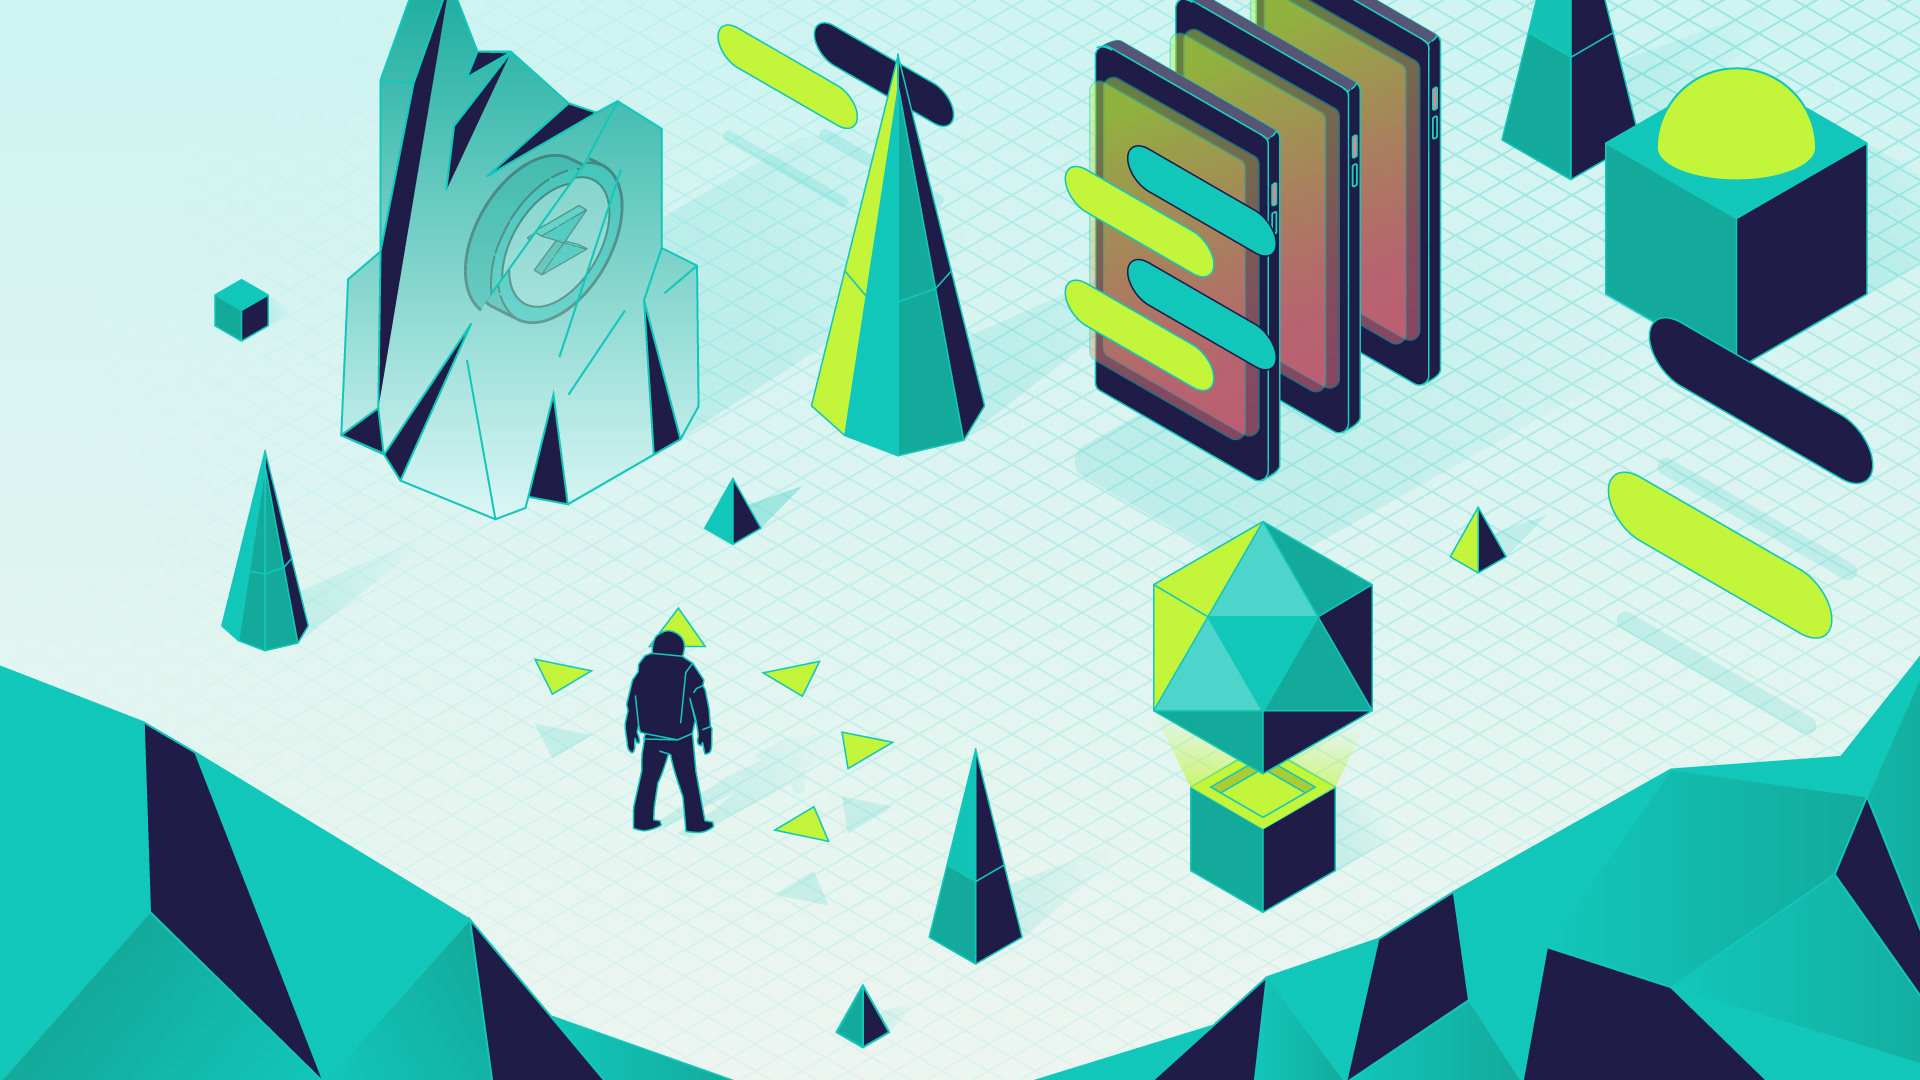
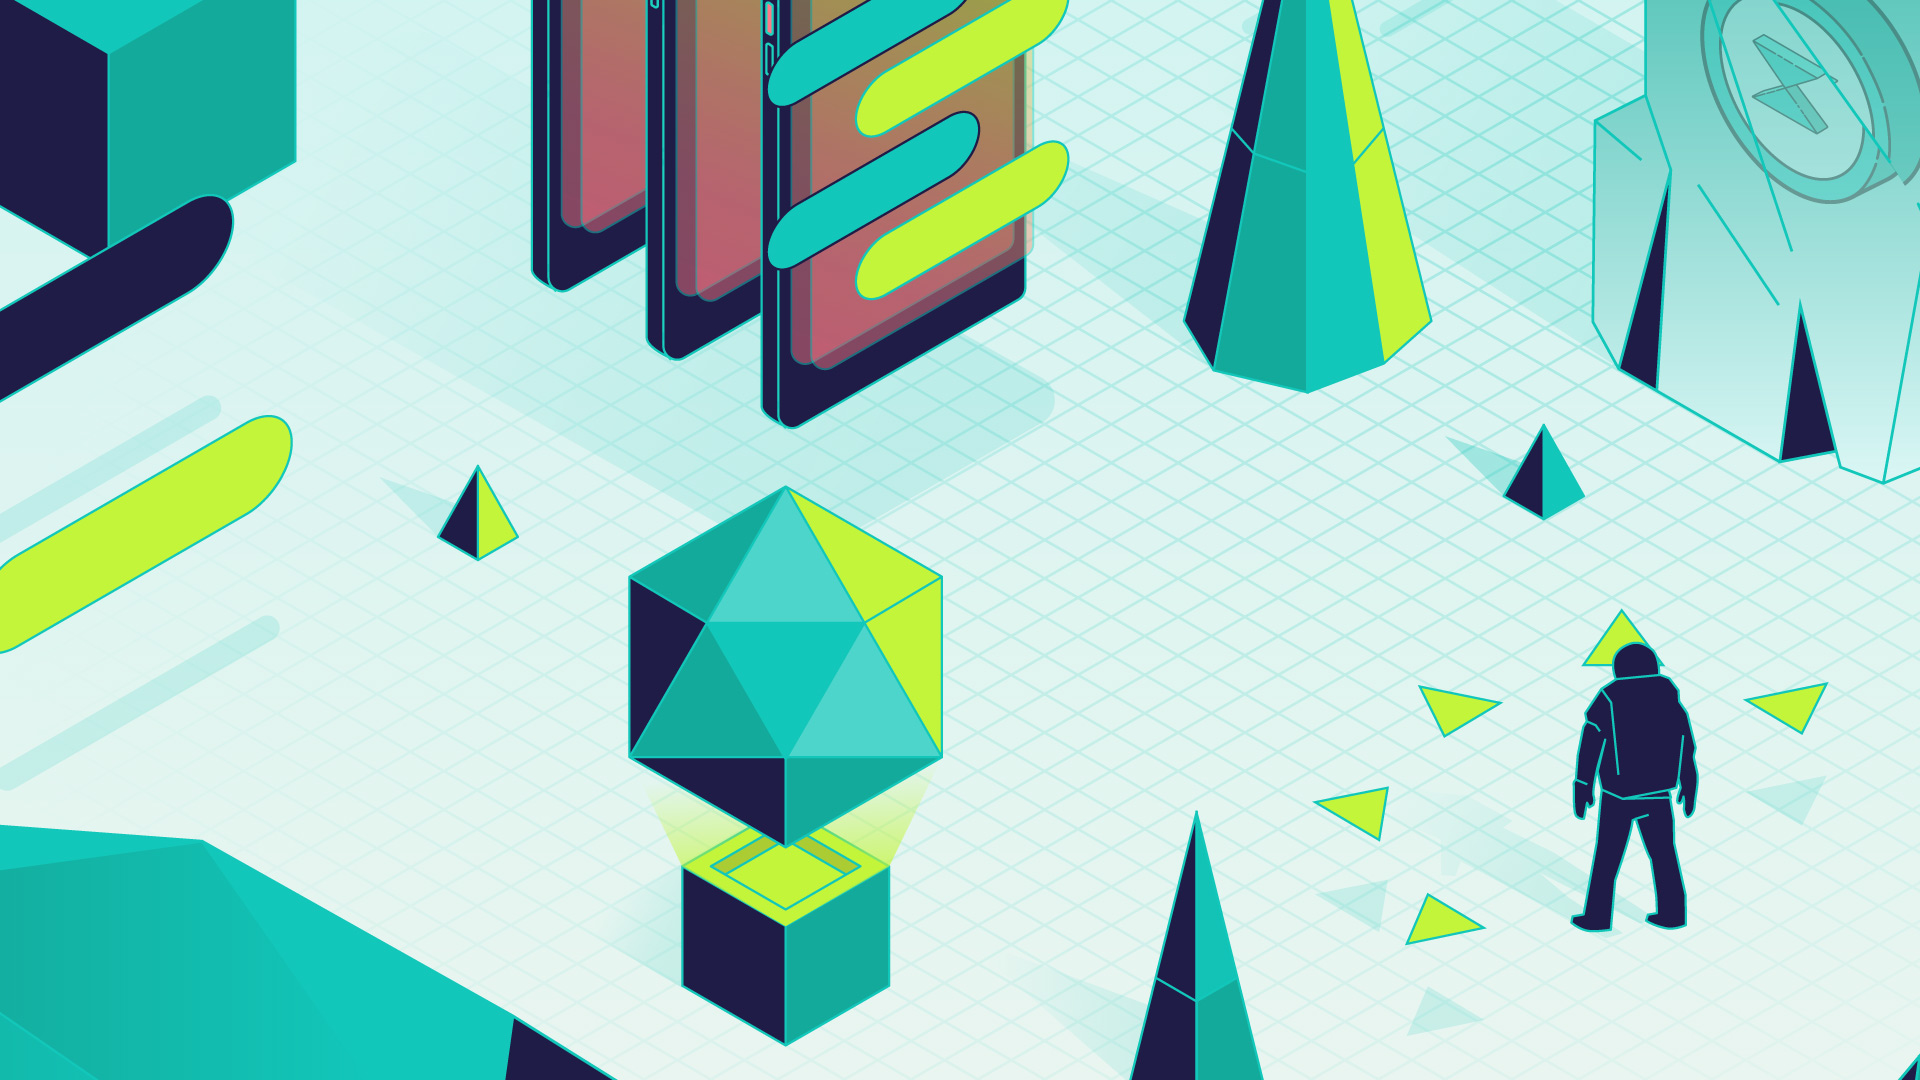
Basis home-hero

diff --git a/components/HomeHeroBubble.tsx b/components/HomeHeroBubble.tsx
@@ -1,0 +1,34 @@
+import classNames from 'classnames';
+import { useContext } from 'react';
+import { ScreenContext } from '../contexts/screen';
+
+export function HomeHeroBubble() {
+  const { isMobile, isTablet, isHuge } = useContext(ScreenContext);
+
+  return (
+    <div
+      style={{
+        transform:
+          isMobile || isTablet
+            ? 'translateY(-40vh)'
+            : isHuge
+            ? 'translateY(-40vh)'
+            : 'translateY(-50vh)',
+      }}
+      className="absolute bottom-0 z-40 px-10 duration-300"
+    >
+      <div
+        className={classNames(
+          'px-4 py-2  leading-tight  text-base border rounded-lg bg-opacity-90 border-secondary bg-alt front-prompt text-primary',
+          //   isMobile ? 'text-base' : 'text-xl',
+        )}
+      >
+        <p className="mb-1 text-xs text-secondary">OXEN</p>
+        Welcome to Oxen.
+        <br />
+        We know you have questions;
+        <br /> here are the answers.
+      </div>
+    </div>
+  );
+}

diff --git a/components/layout/index.tsx b/components/layout/index.tsx
@@ -17,10 +17,11 @@ export default function Layout({ children }: Props) {
     (state: IState) => state.navigation,
   );
 
-  const marginLeft =
+  const marginLeft = `${
     pageType === PageType.NORMAL && isTablet
       ? UI.SIDE_MENU_SIDE_BAR_WIDTH_PX
-      : 0;
+      : 0
+  }px`;
 
   const mobileMenuOpen =
     (pageType === PageType.BLOG || pageType === PageType.POST) &&
@@ -40,12 +41,13 @@ export default function Layout({ children }: Props) {
         className="flex w-full h-full"
       >
         <SideMenu />
+
         <div
           style={{
-            marginLeft: `${marginLeft}px`,
+            marginLeft,
             filter: `brightness(${mobileMenuOpen ? 0.85 : 1})`,
           }}
-          className="relative w-full h-full overflow-y-auto duration-300 bg-alt"
+          className="relative z-50 w-full h-full overflow-y-auto duration-300"
         >
           {children}
         </div>

diff --git a/pages/[page].tsx b/pages/[page].tsx
@@ -62,7 +62,7 @@ function Page({ page }: { page: ISplitPage }) {
         <title>{generateTitle(page?.label)}</title>
       </Head>
 
-      <div>
+      <div className="bg-alt">
         <div className="aspect-w-16 aspect-h-10">
           <div className="flex items-center justify-center bg-gradient-to-br from-blush to-hyper">
             <img
@@ -74,7 +74,7 @@ function Page({ page }: { page: ISplitPage }) {
         </div>
 
         <Contained>
-          <h1 className="w-10/12 mt-6 mb-4 text-5xl font-bold leading-none text-primary font-prompt">
+          <h1 className="w-10/12 mt-6 mb-4 text-4xl font-bold leading-none text-primary font-prompt">
             {page?.title}
           </h1>
 

diff --git a/pages/index.tsx b/pages/index.tsx
@@ -1,5 +1,7 @@
 import Head from 'next/head';
 import React from 'react';
+import { HomeHero } from '../components/HomeHero';
+import { HomeHeroBubble } from '../components/HomeHeroBubble';
 import { METADATA } from '../constants';
 
 const Index = () => {
@@ -14,9 +16,9 @@ const Index = () => {
         />
       </Head>
 
-      <div className="absolute inset-0">
-        <img className="object-cover w-full h-full" src="/hero.jpg" />
-      </div>
+      {/* Only visible when no pages are open */}
+      <HomeHero />
+      <HomeHeroBubble />
     </div>
   );
 };

diff --git a/components/HomeHero.tsx b/components/HomeHero.tsx
@@ -1,0 +1,16 @@
+export function HomeHero() {
+  return (
+    <div
+      style={{
+        top: '-20vh',
+        // transform: `translateX(17.5vw) translateY(-5vh)`,
+      }}
+      className="fixed bottom-0 left-0 right-0 z-30 overflow-hidden"
+    >
+      <img
+        className="object-cover object-right-bottom w-full h-full"
+        src="/hero.png"
+      />
+    </div>
+  );
+}

diff --git a/pages/blog/index.tsx b/pages/blog/index.tsx
@@ -53,7 +53,7 @@ const Blog = ({ posts, tagPosts, tag }: Props) => {
         <title>{generateTitle('Blog')}</title>
       </Head>
 
-      <div className="flex flex-col w-full mt-6 mb-6 space-y-10">
+      <div className="flex flex-col w-full mt-6 mb-6 space-y-10 bg-alt">
         <Contained>
           {!tag && posts.length && <ArticleCardFeature {...featuredPost} />}
 

diff --git a/components/navigation/DesktopHeader.tsx b/components/navigation/DesktopHeader.tsx
@@ -17,6 +17,7 @@ export function DesktopHeader() {
       ref={navBarRef}
       style={{
         height: `${UI.HEADER_HEIGHT_PX}px`,
+        zIndex: UI.Z_INDEX_HEADER,
       }}
       className={classNames(
         'w-full overflow-hidden bg-alt flex items-center border-b border-primary',

diff --git a/pages/blog/[slug].tsx b/pages/blog/[slug].tsx
@@ -60,7 +60,9 @@ function Post({ post }: { post: IPost }) {
         <title>{generateTitle(post?.title)}</title>
       </Head>
 
-      <Article {...post} />
+      <div className="bg-alt">
+        <Article {...post} />
+      </div>
     </>
   );
 }
